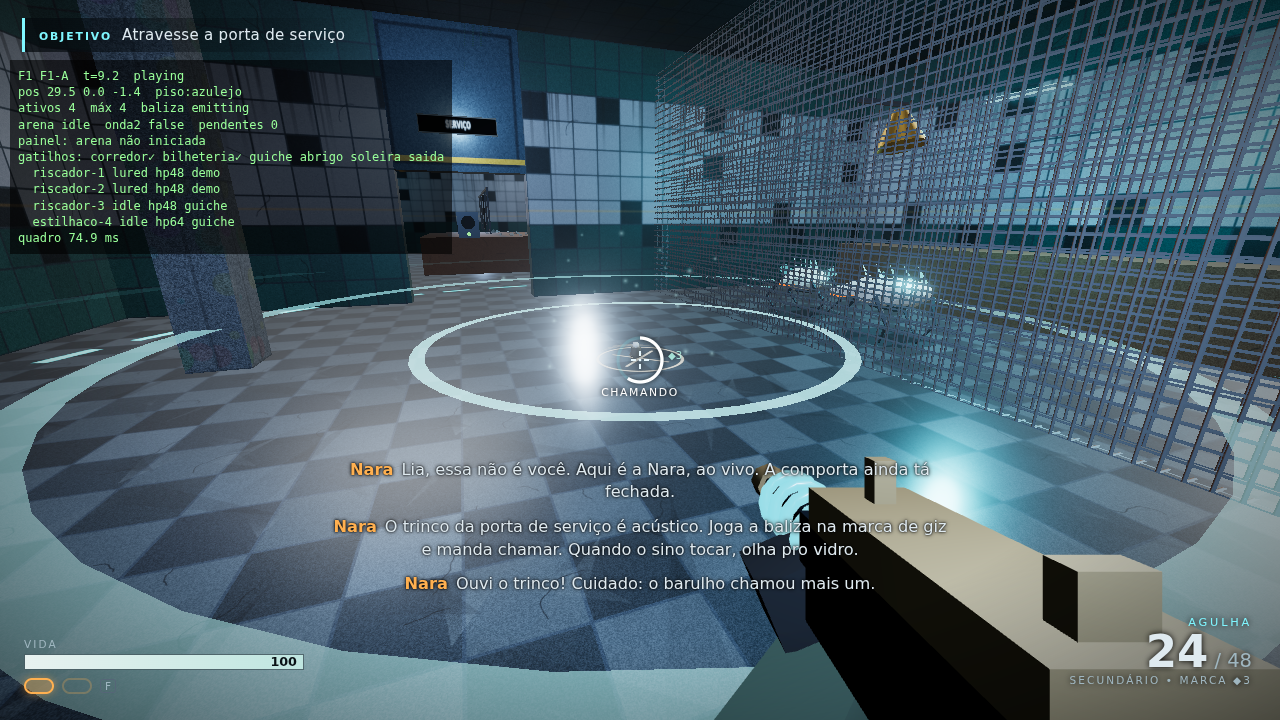
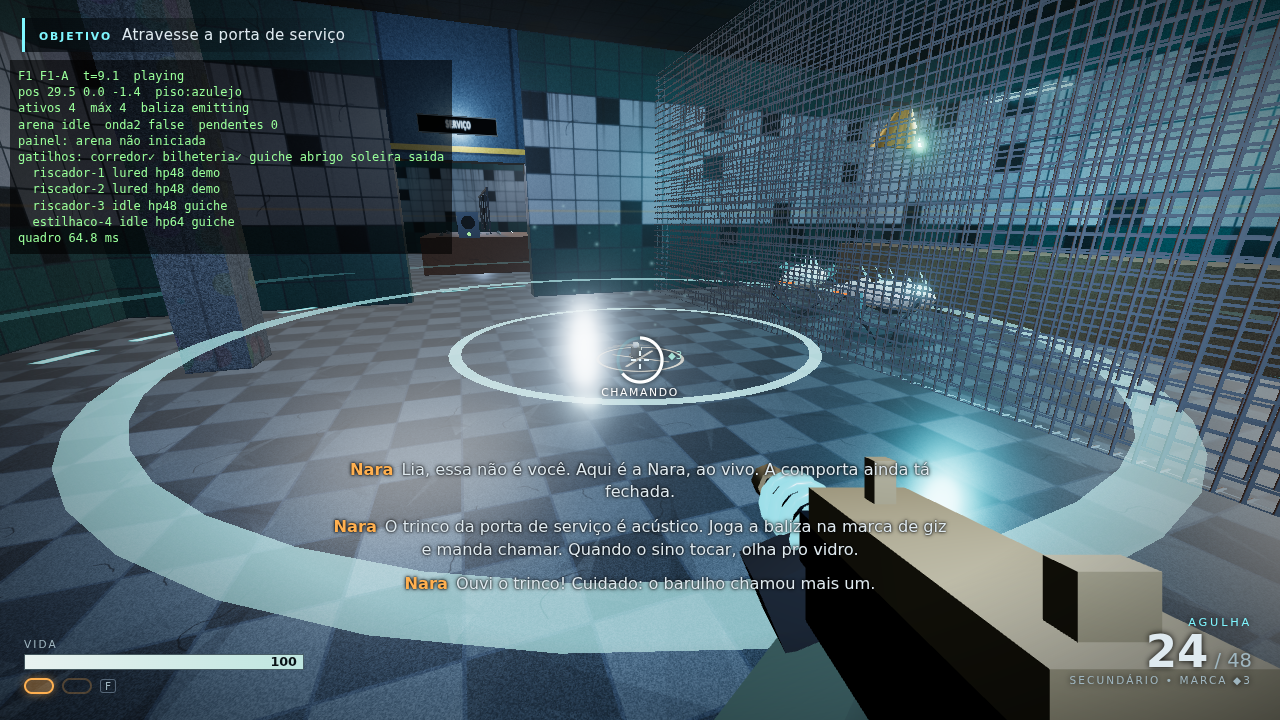
D03: roteiros de teste da F1, e2e D00–D03, correções de navegação (verga contada como piso), arena persistente, primeiro disparo após captura

diff --git a/src/render/textures.ts b/src/render/textures.ts
@@ -47,7 +47,7 @@ export const texFloorTile = () => canvasTex("floor", 512, (g, s) => {
   for (let i = 0; i < n; i++) for (let j = 0; j < n; j++) {
     const v = 70 + r() * 22;
     const alt = (i + j) % 2 === 0;
-    g.fillStyle = alt ? `rgb(${v},${v + 12},${v + 16})` : `rgb(${v * 0.6},${v * 0.72},${v * 0.78})`;
+    g.fillStyle = alt ? `rgb(${v},${v + 12},${v + 16})` : `rgb(${v * 0.78},${v * 0.86},${v * 0.9})`;
     g.fillRect(i * ts + 2, j * ts + 2, ts - 4, ts - 4);
   }
   noise(g, s, 0.12, r);
@@ -66,10 +66,10 @@ export const texWallTile = () => canvasTex("wall", 512, (g, s) => {
   const n = 8, ts = s / n;
   for (let i = 0; i < n; i++) for (let j = 0; j < n; j++) {
     const lower = j > n * 0.55;
-    const v = lower ? 70 + r() * 15 : 150 + r() * 25;
+    const v = lower ? 68 + r() * 10 : 128 + r() * 12;
     g.fillStyle = lower ? `rgb(${v * 0.5},${v * 0.95},${v * 0.9})` : `rgb(${v * 0.92},${v * 0.96},${v})`;
     g.fillRect(i * ts + 1.5, j * ts + 1.5, ts - 3, ts - 3);
-    if (r() < 0.06) { g.fillStyle = "rgba(20,24,26,0.9)"; g.fillRect(i * ts + 1.5, j * ts + 1.5, ts - 3, ts - 3); }
+    if (r() < 0.025) { g.fillStyle = "rgba(40,46,48,0.85)"; g.fillRect(i * ts + 1.5, j * ts + 1.5, ts - 3, ts - 3); }
   }
   g.fillStyle = "rgba(255,170,60,0.25)"; g.fillRect(0, s * 0.55, s, 5);
   noise(g, s, 0.1, r);

diff --git a/src/render/models.ts b/src/render/models.ts
@@ -135,7 +135,7 @@ export function buildEstilhaco(): CreatureRig {
 export function buildAgulha(): { root: THREE.Group; mag: THREE.Mesh; coils: THREE.Mesh[]; muzzle: THREE.Object3D; flash: THREE.Sprite; magMat: THREE.MeshStandardMaterial } {
   const root = new THREE.Group();
   const body = new THREE.MeshStandardMaterial({ color: 0x2e3438, roughness: 0.45, metalness: 0.6 });
-  const trim = new THREE.MeshStandardMaterial({ color: 0xa8865a, roughness: 0.5, metalness: 0.4 });
+  const trim = new THREE.MeshStandardMaterial({ color: 0x5e5446, roughness: 0.55, metalness: 0.55 });
   const glow = new THREE.MeshStandardMaterial({ color: 0x173238, emissive: 0x39d8ff, emissiveIntensity: 1.6, roughness: 0.2 });
   const add = (geo: THREE.BufferGeometry, mat: THREE.Material, x: number, y: number, z: number, rx = 0, ry = 0, rz = 0) => {
     const m = new THREE.Mesh(geo, mat); m.position.set(x, y, z); m.rotation.set(rx, ry, rz); root.add(m); return m;
